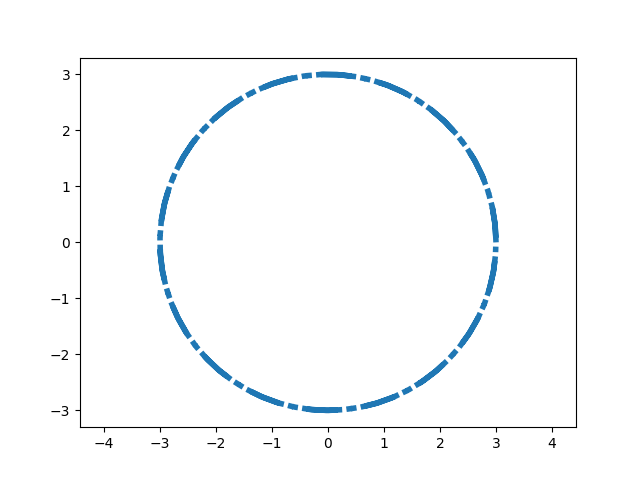
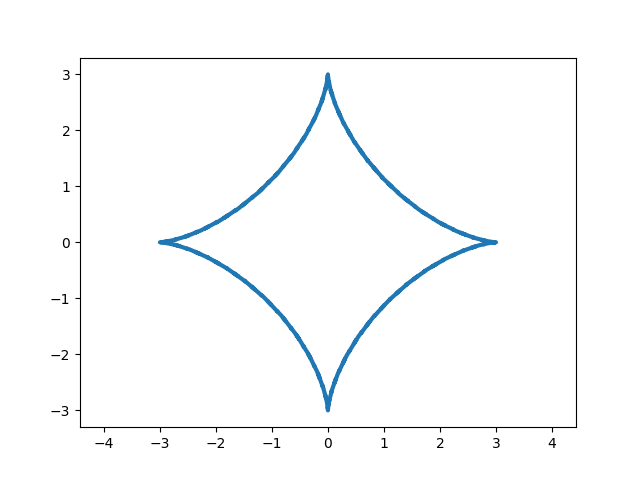
лабы

diff --git a/lab/3.py b/lab/3.py
@@ -1,12 +1,10 @@
-from matplotlib.animation import FuncAnimation
 import matplotlib.pyplot as plt
 import numpy as np
+from matplotlib.animation import FuncAnimation
 
-
-def circle_move(R, angle_vel, time):
-    alpha = angle_vel * np.pi / 180 * time
-    x = R * np.cos(alpha)
-    y = R * np.sin(alpha)
+def circle_move(R, t):
+    x = np.sin(t)*(np.exp(np.cos(t))-2*np.cos(4*t)+ np.sin**5(t/12))
+    y = np.cos(t)*(np.exp(np.cos(t))-2*np.cos(4*t)+ np.sin**5(t/12))
     return x, y
 
 
@@ -14,8 +12,7 @@ fig, ax = plt.subplots()
 ball, = plt.plot([], [], 'o', color='r', label='Ball')
 ball_line, = plt.plot([], [], '-', color='r', label='Ball')
 
-frames = 180
-coords = np.zeros((frames, 2))
+coords = np.zeros((180, 2))
 
 
 def animate(i):
@@ -30,5 +27,5 @@ plt.axis('equal')
 ax.set_xlim(-edge, edge)
 ax.set_ylim(-edge, edge)
 
-ani = FuncAnimation(fig, animate, frames=frames, interval=30)
-plt.show()
+ani = FuncAnimation (fig, animate, frames=180, interval=30)
+ani.save('ani.gif', writer="pillow")

diff --git a/lab/dop_3.py b/lab/dop_3.py
@@ -1,0 +1,37 @@
+from matplotlib.animation import FuncAnimation
+import matplotlib.pyplot as plt
+import numpy as np
+
+x0, y0 = 0, 0
+t= np.linspace(0, 4*np.pi, 500)
+
+
+x = 12*np.cos(t)+8*np.cos(1.5*t)
+y = 12*np.sin(t)+8*np.sin(1.5*t)
+
+fig, ax = plt.subplots(figsize=(8, 8))
+ax.set_xlim(-25, 25)
+ax.set_ylim(-25, 25)
+ax.set_aspect('equal')
+
+
+line, = ax.plot([], [], 'r-', linewidth=2)
+point, = ax.plot([], [], 'bo', markersize=8)
+
+def init():
+    line.set_data([], [])
+    point.set_data([], [])
+    return line, point
+
+def animate(frame):
+    alpha = frame * 0.05
+    X = x0 + x * np.cos(alpha) - y * np.sin(alpha)
+    Y = y0 + y * np.cos(alpha) + x * np.sin(alpha)
+
+    line.set_data(X, Y)
+    point.set_data([x0], [y0])
+    return line, point
+
+ani = FuncAnimation(fig, animate, frames=200, 
+                    init_func=init, blit=True, interval=50)
+ani.save('фф.gif', writer="pillow")

diff --git a/lab/DD_3.py b/lab/DD_3.py
@@ -1,0 +1,32 @@
+from matplotlib.animation import FuncAnimation
+import matplotlib.pyplot as plt
+import numpy as np
+
+
+def zvezda1(beta, R=3):
+    alpha = np.arange(0, 2*np.pi, 0.1)
+    x =  R*np.cos(alpha)**3
+    y =  R*np.sin(alpha)**3
+
+    beta= np.deg2rad(beta)
+    X =  x * np.cos(beta) - y * np.sin(beta)
+    Y =  x * np.sin(beta) + y * np.cos(beta)
+    return X, Y
+
+
+fig, ax = plt.subplots()
+zvezda, = plt.plot([], [], '-', color='r', label='Ball')
+
+
+def animate(beta):
+    zvezda.set_data(zvezda1(beta))
+    return zvezda
+
+
+edge = 3
+plt.axis('equal')
+ax.set_xlim(-edge, edge)
+ax.set_ylim(-edge, edge)
+
+ani = FuncAnimation(fig, animate, frames=100, interval=30)
+ani.save('zvezda.gif', writer="pillow")

diff --git a/lab/2.py b/lab/2.py
@@ -1,0 +1,30 @@
+from matplotlib.animation import FuncAnimation
+import matplotlib.pyplot as plt
+import numpy as np
+
+
+def circle_move(R, vx0, vy0, time):
+    x0 = vx0 * time
+    y0 = vy0 * time
+    alpha = np.arange(0, 2.1*np.pi, 0.1)
+    x = x0 + R*np.cos(alpha)
+    y = y0 + R*np.sin(alpha)
+    return x, y
+
+
+fig, ax = plt.subplots()
+ball, = plt.plot([], [], '-', color='r', label='Ball')
+
+
+def animate(i):
+    ball.set_data(circle_move(R=0.03*i, vx0=0.03, vy0=0, time=i))
+    return ball
+
+
+edge = 3
+plt.axis('equal')
+ax.set_xlim(-edge, edge)
+ax.set_ylim(-edge, edge)
+
+ani = FuncAnimation(fig, animate, frames=100, interval=30)
+ani.save('anima.gif', writer="pillow")

diff --git a/lab/4.py b/lab/4.py
@@ -1,0 +1,30 @@
+
+import numpy as np
+import matplotlib.pyplot as plt
+from matplotlib.animation import FuncAnimation
+
+
+C,D=0.3,0.33
+x, y = [0.1], [0.1] 
+
+
+def update(i):
+    x.append(x[i-1]**2-y[i-1]**2+C) 
+    y.append(2*x[i-1]*y[i-1]+D)
+    
+    
+    anim_object.set_data(x, y)
+
+    return anim_object
+
+fig, ax = plt.subplots()
+
+
+anim_object, = plt.plot([], [], 'o', lw=2)
+ax.set_xlim(-1, 1) 
+ax.set_ylim(-1, 1) 
+plt.axis('equal')
+ani = FuncAnimation(fig, update,frames=100, interval=50) 
+                                
+
+ani.save('ani.gif', writer="pillow")

diff --git a/lab/d_3.py b/lab/d_3.py
@@ -1,0 +1,17 @@
+import matplotlib.pyplot as plt
+import numpy as np
+
+
+R=3
+alpha = np.arange(0, 2.5*np.pi,  0.1)  
+x = R * np.cos(alpha)**3
+y = R * np.sin(alpha)**3
+
+beta= np.deg2rad0(30)
+X = x0 + x * np.cos(alpha) - y * np.sin(alpha)
+Y = y0 + y * np.cos(alpha) + x * np.sin(alpha)-3
+plt.plot(x, y, ls='--', lw=3)
+plt.axis('equal')
+plt.xlim(-3,3)
+plt.ylim(-3,3)
+plt.savefig('fig_1.png')

diff --git a/lab/1.py b/lab/1.py
@@ -12,13 +12,3 @@ def cikloida(R, t):
      plt.savefig('me.png')
 cikloida(3,1)
 
-
-def astroida(R, t):
-      t = np.arange(0, 18*np.pi, 0.01)
-      R=16
-      x = R * np.cos(t)**3
-      y =  R * np.sin(t)**3
-      plt.plot(x, y, ls='-', lw=3)
-      plt.axis('equal')
-      plt.savefig('me.png') 
-astroida(16, 1)

diff --git a/lab/1.2.py b/lab/1.2.py
@@ -1,0 +1,13 @@
+
+import matplotlib.pyplot as plt
+import numpy as np
+
+def astroida(R, t):
+      t = np.arange(0, 18*np.pi, 0.01)
+      R=16
+      x = R * np.cos(t)**3
+      y =  R * np.sin(t)**3
+      plt.plot(x, y, ls='-', lw=3)
+      plt.axis('equal')
+      plt.savefig('mуe.png') 
+astroida(16, 1)

diff --git a/lab/dop_1.py b/lab/dop_1.py
@@ -1,0 +1,1 @@
+дз
